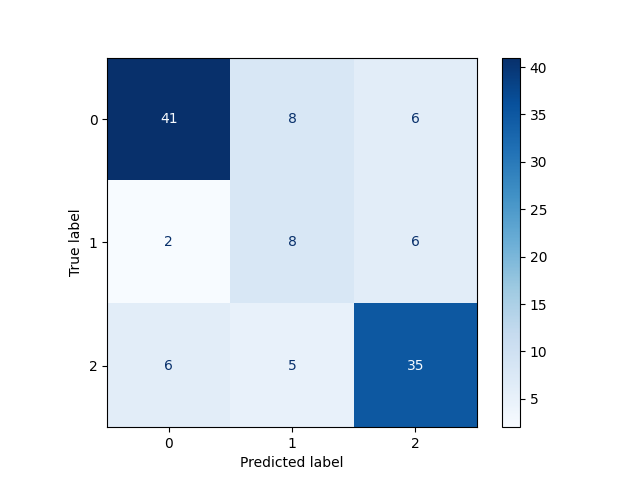
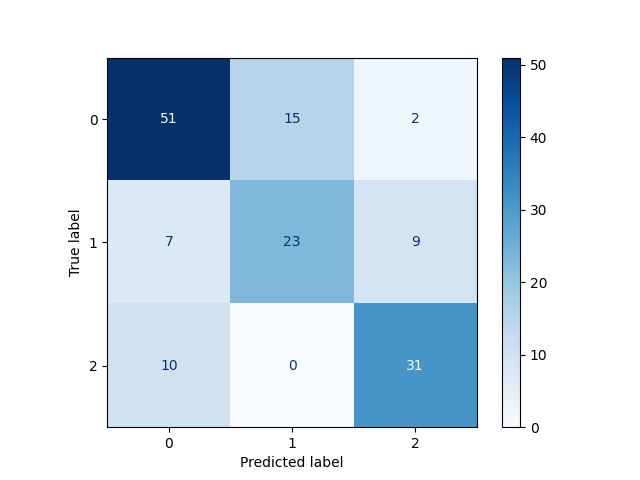
results obtained for english+mandarin data

diff --git a/eval_scripts/cross_lang_eval.py b/eval_scripts/cross_lang_eval.py
@@ -1,0 +1,157 @@
+# Cross-language evaluation script
+
+import json
+from pathlib import Path
+
+import numpy as np
+import pandas as pd
+import torch
+from sklearn.metrics import r2_score
+
+from ml import model
+from utils.language import normalize_language
+
+TEST_JSON = Path('data_jsons/test.json')
+REG_WEIGHTS_PATH = Path('models/model_weights_reg.pth')
+CLS_WEIGHTS_PATH = Path('models/model_weights_cls.pth')
+SCALER_PATH = Path('models/model_scaler.pkl')
+FEATURE_DIR = Path('models/features')
+EVAL_DIR = Path('eval_results')
+EVAL_DIR.mkdir(parents=True, exist_ok=True)
+
+
+def compute_r2(loader, regressor):
+    regressor.eval()
+    preds = []
+    targets = []
+
+    with torch.no_grad():
+        for xb, yb, _, y_mask, _ in loader:
+            if not y_mask.any():
+                continue
+
+            xb = xb[y_mask].to(model.device)
+            yb = yb[y_mask].to(model.device)
+            batch_preds = regressor(xb).squeeze(-1)
+
+            preds.append(batch_preds.cpu().numpy())
+            targets.append(yb.squeeze(-1).cpu().numpy())
+
+    if not preds:
+        return None
+
+    return r2_score(np.concatenate(targets), np.concatenate(preds))
+
+
+def subset_arrays(mask, X, y, z, y_mask, z_mask):
+    return (
+        X[mask],
+        y[mask],
+        z[mask],
+        y_mask[mask],
+        z_mask[mask],
+    )
+
+
+def evaluate_subset(name, mask, X, y, z, y_mask, z_mask, regressor, classifier):
+    X_sub, y_sub, z_sub, y_mask_sub, z_mask_sub = subset_arrays(mask, X, y, z, y_mask, z_mask)
+
+    loader = model.create_dataloader(
+        X_sub,
+        y_sub,
+        z_sub,
+        y_mask_sub,
+        z_mask_sub,
+        batch_size=64,
+        shuffle=False,
+    )
+
+    reg_criterion = torch.nn.HuberLoss(delta=1.5)
+    cls_criterion = torch.nn.CrossEntropyLoss()
+
+    _, mae, rmse = model.test_reg(loader, regressor, reg_criterion)
+    _, accuracy, f1, _ = model.test_cls(loader, classifier, cls_criterion)
+    r2 = compute_r2(loader, regressor) if mae is not None else None
+
+    return {
+        'Split': name,
+        'Samples': int(mask.sum()),
+        'MMSE labeled': int(np.sum(y_mask_sub)),
+        'Diagnosis labeled': int(np.sum(z_mask_sub)),
+        'MAE': mae,
+        'RMSE': rmse,
+        'R²': r2,
+        'Accuracy': accuracy,
+        'Macro-F1': f1,
+    }
+
+
+def main():
+    print('Loading test split metadata...')
+
+    with TEST_JSON.open('r', encoding='utf-8') as f:
+        test_data = json.load(f)['data']
+
+    languages = np.array([
+        normalize_language(item.get('language'))
+        for item in test_data
+    ])
+
+    print('Loading saved test features...')
+    X_test_scaled = np.load(FEATURE_DIR / 'X_test_scaled.npy')
+    y_test = np.load(FEATURE_DIR / 'y_test.npy')
+    z_test = np.load(FEATURE_DIR / 'z_test.npy')
+    y_test_mask = np.load(FEATURE_DIR / 'y_test_mask.npy')
+    z_test_mask = np.load(FEATURE_DIR / 'z_test_mask.npy')
+
+    if len(languages) != len(X_test_scaled):
+        raise ValueError(
+            'Mismatch between test.json entries and saved test features: '
+            f'{len(languages)} vs {len(X_test_scaled)}'
+        )
+
+    print('Loading trained models...')
+    model.load_scaler(SCALER_PATH)
+
+    backbone = model.new_backbone()
+    regressor = model.MMSERegression(backbone).to(model.device)
+    classifier = model.CognitiveStatusClassification(backbone).to(model.device)
+
+    model.load(REG_WEIGHTS_PATH, regressor)
+    model.load(CLS_WEIGHTS_PATH, classifier)
+
+    subset_masks = {
+        'English only': languages == 'en',
+        'Mandarin only': languages == 'zh',
+        'All test data': np.ones(len(languages), dtype=bool),
+    }
+
+    results = []
+    for subset_name, subset_mask in subset_masks.items():
+        results.append(
+            evaluate_subset(
+                subset_name,
+                subset_mask,
+                X_test_scaled,
+                y_test,
+                z_test,
+                y_test_mask,
+                z_test_mask,
+                regressor,
+                classifier,
+            )
+        )
+
+    df = pd.DataFrame(results)
+    csv_path = EVAL_DIR / 'cross_lang_eval.csv'
+    df.to_csv(csv_path, index=False)
+
+    print('\n' + '=' * 72)
+    print('CROSS-LANGUAGE TEST EVALUATION')
+    print('=' * 72)
+    print(df.to_string(index=False, float_format=lambda x: f'{x:.3f}' if pd.notna(x) else 'n/a'))
+    print(f'\nResults saved to {csv_path}')
+
+
+if __name__ == '__main__':
+    main()
